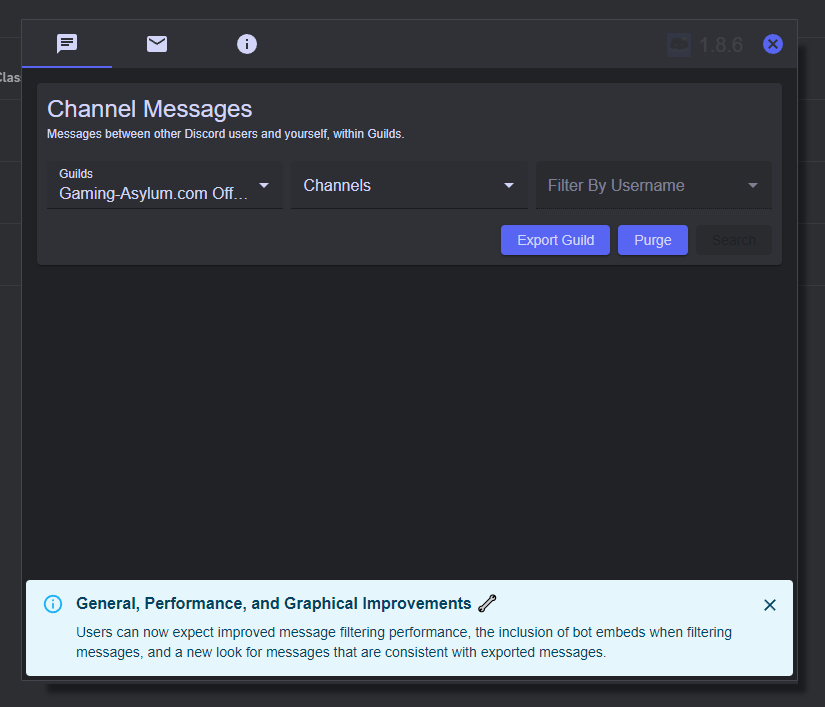
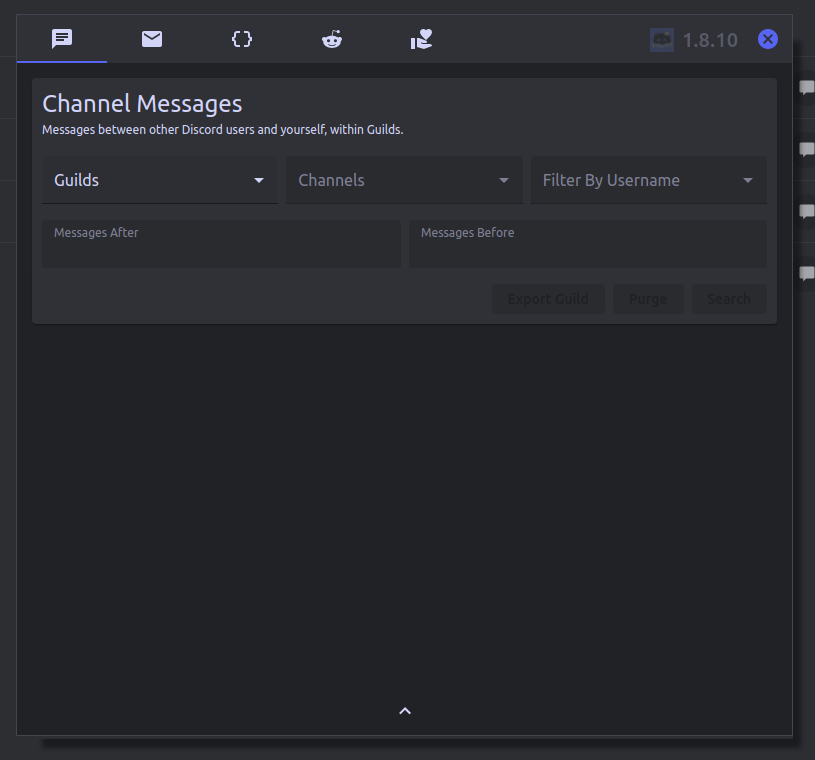
Force UTF-8 on HTML exports, update screenshots

diff --git a/src/components/MenuBar/DonationDialog.jsx b/src/components/MenuBar/DonationDialog.jsx
@@ -7,9 +7,12 @@ import {
   DialogContentText,
   Button,
   Tab,
+  Stack,
 } from "@mui/material";
 import VolunteerActivismIcon from "@mui/icons-material/VolunteerActivism";
 import Tooltip from "../DiscordComponents/DiscordTooltip/DiscordToolTip";
+import GoogleIcon from "@mui/icons-material/Google";
+import CoffeeIcon from "@mui/icons-material/Coffee";
 
 function DonationDialog() {
   const [donationDialogOpen, setDonationDialogOpen] = useState(false);
@@ -20,8 +23,8 @@ function DonationDialog() {
     <>
       <Tooltip
         arrow
-        title="Ko-Fi Donations"
-        description="Support the extension's development by gifting the developer a much needed coffee ☕"
+        title="Leave a Review / Ko-Fi Donation"
+        description="Support the extension's development by leaving a review or by gifting the developer a much needed coffee ☕!"
       >
         <Tab
           onClick={(e) => {
@@ -32,23 +35,100 @@ function DonationDialog() {
       </Tooltip>
 
       <Dialog open={donationDialogOpen} onClose={handleDialogClose}>
-        <DialogTitle>Ko-Fi Donations</DialogTitle>
+        <DialogTitle>Leave a Review / Ko-Fi Donation</DialogTitle>
         <DialogContent>
           <DialogContentText>
-            <div>
-              Thank you for taking the time to try out Discrub, while donations
-              are never expected, they are very much welcome and appreciated!
-            </div>
-            <img
-              style={{
-                width: "560px",
-                borderRadius: "10px",
-                border: "1px solid rgb(88, 101, 242)",
-                marginTop: "10px",
-              }}
-              src="ko-fi.png"
-              alt="Ko-Fi Preview"
-            />
+            <Stack
+              direction="column"
+              justifyContent="center"
+              alignItems="center"
+              spacing={2}
+            >
+              <Stack
+                direction="column"
+                justifyContent="center"
+                alignItems="center"
+                spacing={2}
+              >
+                <div>
+                  Thank you to everyone for taking the time to try out Discrub,
+                  I've been able to make so many improvements and add many new
+                  features, all from your feedback!
+                </div>
+                <div>
+                  While reviews and donations are never expected, they are
+                  greatly appreciated and help support the development of this
+                  extension ❤
+                </div>
+              </Stack>
+
+              <Stack
+                direction="row"
+                justifyContent="center"
+                alignItems="center"
+                spacing={2}
+              >
+                <Stack
+                  direction="column"
+                  justifyContent="center"
+                  alignItems="center"
+                  spacing={2}
+                >
+                  <img
+                    style={{
+                      width: "260px",
+                      height: "152px",
+                      borderRadius: "10px",
+                      border: "1px solid rgb(88, 101, 242)",
+                      marginTop: "10px",
+                    }}
+                    src="googlereview.png"
+                    alt="Google Review Preview"
+                  />
+                  <Button
+                    startIcon={<GoogleIcon />}
+                    variant="contained"
+                    disableElevation
+                    onClick={() =>
+                      window.open(
+                        "https://chrome.google.com/webstore/detail/discrub/plhdclenpaecffbcefjmpkkbdpkmhhbj",
+                        "_blank"
+                      )
+                    }
+                  >
+                    Continue to Google
+                  </Button>
+                </Stack>
+                <Stack
+                  direction="column"
+                  justifyContent="center"
+                  alignItems="center"
+                  spacing={2}
+                >
+                  <img
+                    style={{
+                      width: "260px",
+                      height: "152px",
+                      borderRadius: "10px",
+                      border: "1px solid rgb(88, 101, 242)",
+                      marginTop: "10px",
+                    }}
+                    src="ko-fi.png"
+                    alt="Ko-Fi Preview"
+                  />
+                  <Button
+                    startIcon={<CoffeeIcon />}
+                    variant="contained"
+                    disableElevation
+                    onClick={() =>
+                      window.open("https://ko-fi.com//prathercc", "_blank")
+                    }
+                  >
+                    Continue to Ko-Fi
+                  </Button>
+                </Stack>
+              </Stack>
+            </Stack>
           </DialogContentText>
         </DialogContent>
         <DialogActions>
@@ -58,15 +138,6 @@ function DonationDialog() {
             onClick={handleDialogClose}
           >
             Cancel
-          </Button>
-          <Button
-            variant="contained"
-            disableElevation
-            onClick={() =>
-              window.open("https://ko-fi.com//prathercc", "_blank")
-            }
-          >
-            Continue to Ko-Fi
           </Button>
         </DialogActions>
       </Dialog>

diff --git a/src/components/MenuBar/MenuBar.jsx b/src/components/MenuBar/MenuBar.jsx
@@ -13,7 +13,7 @@ const MenuBar = ({ menuIndex, setMenuIndex }) => {
   const classes = MenuBarStyles();
 
   const handleChange = (event, newValue) => {
-    const dialogTabs = [2, 3];
+    const dialogTabs = [3, 4];
     if (!dialogTabs.some((dt) => dt === newValue)) setMenuIndex(newValue);
   };
 
@@ -26,11 +26,11 @@ const MenuBar = ({ menuIndex, setMenuIndex }) => {
         <Tooltip arrow title="Direct Messages">
           <Tab icon={<EmailIcon />} />
         </Tooltip>
-        <DonationDialog />
-        <RedditDialog />
         <Tooltip arrow title="Change Log">
           <Tab icon={<DataObjectIcon />} />
         </Tooltip>
+        <RedditDialog />
+        <DonationDialog />
       </Tabs>
     </>
   );

diff --git a/src/components/Export/ExportUtils.js b/src/components/Export/ExportUtils.js
@@ -33,6 +33,14 @@ export default class ExportUtils {
         )[0].style;
       bodyElementStyle.margin = "3px";
       bodyElementStyle.backgroundColor = "#36393f";
+
+      let meta = document.createElement("meta");
+      meta.httpEquiv = "Content-Type";
+      meta.content = "text/html; charset=utf-8";
+      iframe.contentWindow.document
+        .getElementsByTagName("head")[0]
+        .prepend(meta);
+
       this.html = iframe.contentWindow.document.lastElementChild.outerHTML;
     },
     removeAfterPrint: true,

diff --git a/src/components/InjectedDialog/InjectedDialog.jsx b/src/components/InjectedDialog/InjectedDialog.jsx
@@ -72,7 +72,7 @@ function InjectedDialog() {
         <ChannelMessages closeAnnouncement={() => setAlertOpen(false)} />
       )}
       {menuIndex === 1 && <DirectMessages />}
-      {menuIndex === 4 && <About />}
+      {menuIndex === 2 && <About />}
       {announcement && (
         <Box className={classes.alertBox}>
           {!alertOpen && (
